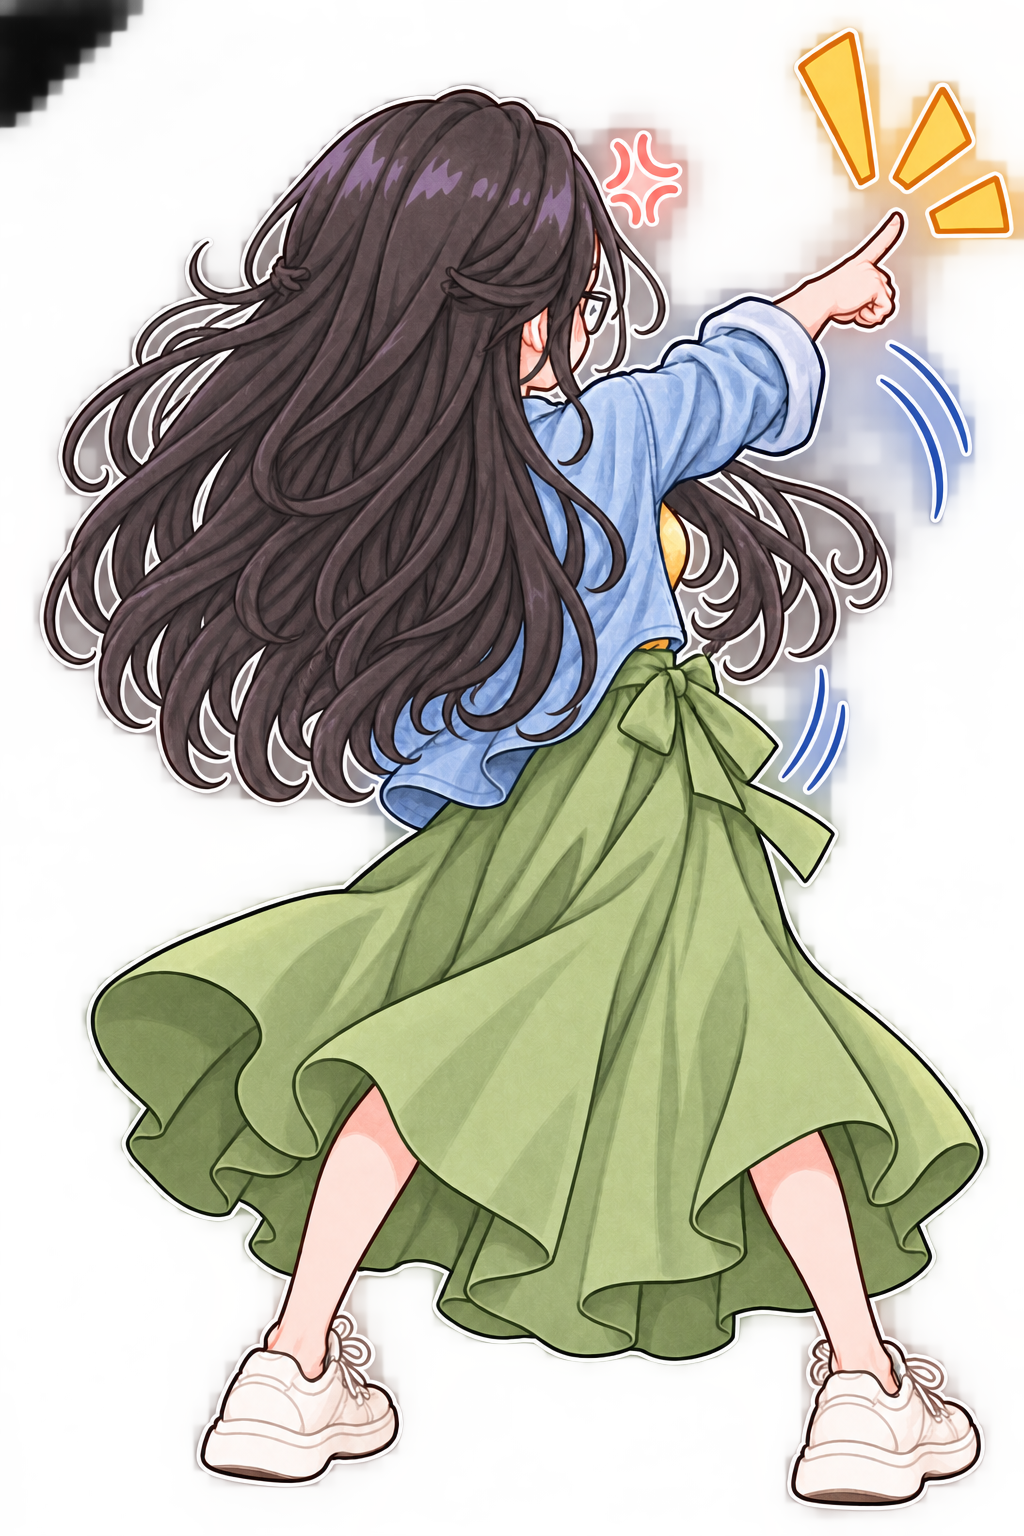
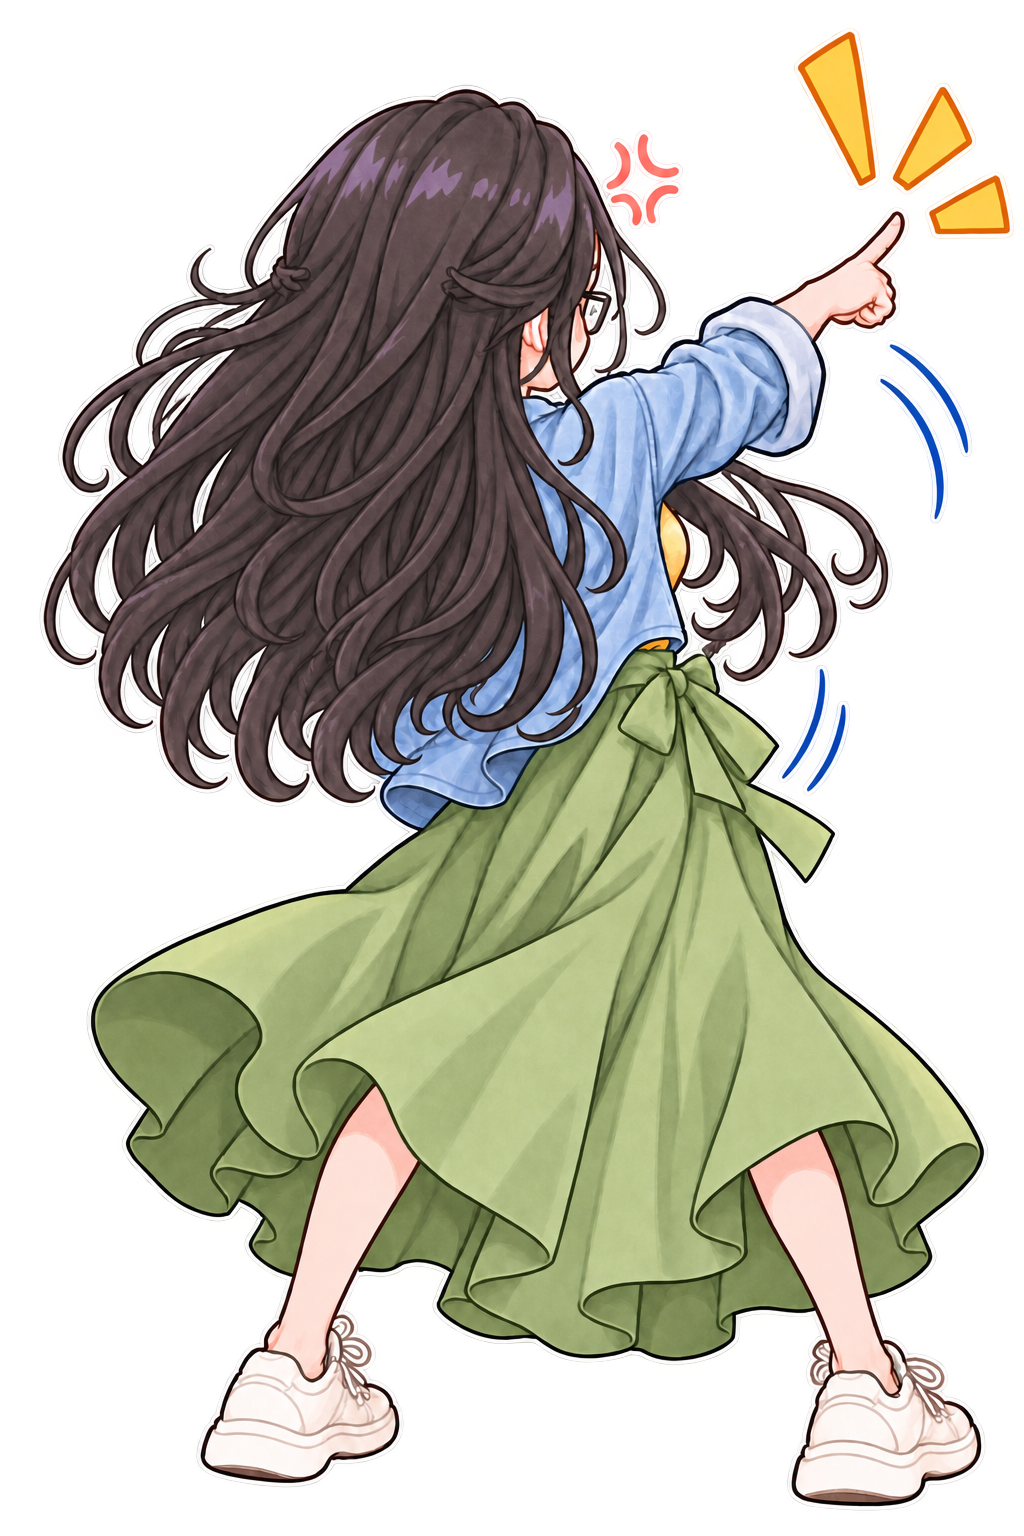
Combat

diff --git a/src/data/chapterSevenDialogue.ts b/src/data/chapterSevenDialogue.ts
@@ -57,10 +57,8 @@ export const chapterSevenDialogue: ChapterSevenLine[] = [
 
   tavern("钟离", "看来，结果已经出来了。", "zhongli", 1),
   tavern("Bianca", "结果？"),
-  tavern("温迪", "对呀。", "venti", 2),
-  tavern("温迪", "我和这位钟离先生刚刚打了个赌。", "venti", 2),
-  tavern("Bianca", "……"),
-  tavern("Bianca", "为什么你们会拿我的飞行考试打赌？"),
+  tavern("温迪", "对呀。\n 我和这位钟离先生刚刚打了个赌。", "venti", 2),
+  tavern("Bianca", "……\n 为什么你们会拿我的飞行考试打赌？"),
   tavern("温迪", "因为很有意思嘛。", "venti", 2),
   tavern("钟离", "我只是接受了他的赌约。", "zhongli", 1),
   tavern("Bianca", "这听起来也没有好到哪里去。"),
@@ -69,11 +67,8 @@ export const chapterSevenDialogue: ChapterSevenLine[] = [
   tavern("钟离", "而我的判断是，", "zhongli", 1),
   tavern("钟离", "她会一边抱怨，一边通过考试。", "zhongli", 1),
   tavern("Bianca", "……"),
-  tavern("温迪", "所以，怎么样？", "venti", 2),
-  tavern("温迪", "飞行考试通过了吗？", "venti", 2),
+  tavern("温迪", "所以，怎么样？\n 飞行考试通过了吗？", "venti", 2),
   tavern("Bianca", "……通过了。"),
-  tavern("温迪", "诶？", "venti", 2),
-  tavern("温迪", "等等。", "venti", 2),
   tavern("温迪", "那你考试的时候有没有抱怨？", "venti", 2),
   tavern("Bianca", "……"),
   tavern("Bianca", "有。"),
@@ -86,19 +81,16 @@ export const chapterSevenDialogue: ChapterSevenLine[] = [
   tavern("温迪", "知道啦知道啦。", "venti", 3),
   tavern("温迪", "不就是一顿酒嘛……", "venti", 3),
 
-  tavern("Bianca", "所以……"),
-  tavern("Bianca", "你们既然刚刚就在聊我。"),
+  tavern("Bianca", "所以……\n 你们既然刚刚就在聊我。"),
   tavern("Bianca", "是不是知道我为什么会出现在这里？"),
   tavern("Bianca", "我原本明明在飞机上。"),
   tavern("Bianca", "然后一眨眼，就拿着风之翼从天上往下掉。"),
   tavern("Bianca", "到底发生了什么？"),
-  tavern("Bianca", "还有。"),
-  tavern("Bianca", "我要怎么回去？"),
+  tavern("Bianca", "还有，我要怎么回去？"),
 
   tavern("钟离", "或许，是因为某件不属于这个世界的东西。", "zhongli", 3),
   tavern("Bianca", "不属于这个世界的东西？"),
-  tavern("钟离", "有某样来自你原本世界的物品，", "zhongli", 3),
-  tavern("钟离", "意外落入了提瓦特。", "zhongli", 3),
+  tavern("钟离", "有某样来自你原本世界的物品，\n 意外落入了提瓦特。", "zhongli", 3),
   tavern("温迪", "而且看起来，", "venti", 4),
   tavern("温迪", "它并不太安分。", "venti", 4),
   tavern("Bianca", "……？"),
@@ -115,8 +107,7 @@ export const chapterSevenDialogue: ChapterSevenLine[] = [
 
   tavern("Bianca", "那为什么是我？"),
   tavern("钟离", "因为那件东西与你有关。", "zhongli", 3),
-  tavern("钟离", "或者说——", "zhongli", 3),
-  tavern("钟离", "只有你能够将它真正带离这个世界。", "zhongli", 3),
+  tavern("钟离", "或者说——\n 只有你能够将它真正带离这个世界。", "zhongli", 3),
   tavern("Bianca", "所以我掉进这里……"),
   tavern("Bianca", "就是为了帮你们捡东西？"),
   tavern("温迪", "这么说听起来确实有点委屈。", "venti", 2),
@@ -124,8 +115,7 @@ export const chapterSevenDialogue: ChapterSevenLine[] = [
 
   tavern("Bianca", "那我要怎么找到它？"),
   tavern("钟离", "命运自会将不合适的东西排斥于外。", "zhongli", 3),
-  tavern("Bianca", "……"),
-  tavern("Bianca", "说人话。"),
+  tavern("Bianca", "……\n 说人话。"),
   tavern("温迪", "……", "venti", 2),
   tavern("钟离", "换言之。", "zhongli", 3),
   tavern("钟离", "当它引起的波动足够明显时，", "zhongli", 3),
@@ -135,13 +125,11 @@ export const chapterSevenDialogue: ChapterSevenLine[] = [
   tavern("温迪", "差不多就是这个意思。", "venti", 2),
   tavern("Bianca", "你们这个解决方案是不是有点被动。"),
 
-  tavern("Bianca", "等等。"),
-  tavern("Bianca", "那菲林斯呢？"),
+  tavern("Bianca", "等等。\n 那菲林斯呢？"),
   tavern("温迪", "菲林斯？", "venti", 1),
   tavern("Bianca", "就是那个在机场一直装工作人员的人。"),
   tavern("Bianca", "他明显早就知道我会来这里。"),
-  tavern("钟离", "……菲林斯。", "zhongli", 5),
-  tavern("温迪", "原来如此。", "venti", 5),
+  tavern("钟离", "……菲林斯。\n 原来如此。", "zhongli", 5),
   tavern("Bianca", "你们认识？"),
   tavern("温迪", "这个嘛……", "venti", 5),
 
@@ -153,5 +141,5 @@ export const chapterSevenDialogue: ChapterSevenLine[] = [
   tavern("安柏", "一直不肯离开！", "amberUrgent"),
   tavern("钟离", "看来，比预想中更快。", "zhongli", 5),
   tavern("Bianca", "等等。"),
-  tavern("Bianca", "不会这么巧吧？"),
+  tavern("Bianca", "不会这么巧吧！？"),
 ];

diff --git a/src/data/chapterFiveDialogue.ts b/src/data/chapterFiveDialogue.ts
@@ -27,7 +27,7 @@ export const chapterFiveDialogue: Record<string, ChapterFiveNode> = {
   choiceA: line("安柏", "什么？！那你刚才到底是怎么飞起来的？！", 2, "noLicence"),
   choiceB: line("安柏", "啊？！连怎么飞起来的都不知道？！", 2, "noLicence"),
   choiceC: line("安柏", "当然可以啊！你不会连飞行执照都没有吧？！", 2, "noLicence"),
-  noLicence: line("安柏", "什么？！没有飞行执照就敢乱飞！", 2, "biancaExplain"),
+  noLicence: line("安柏", "没有飞行执照就敢乱飞！", 2, "biancaExplain"),
   biancaExplain: line("Bianca", "不是，我其实——", 2, "amberChampion"),
   amberChampion: line("安柏", "正好！我可是蒙德城的飞行冠军！走走走，我带你去参加飞行考试！", 4, "biancaProtest"),
   biancaProtest: line("Bianca", "等一下！我还没说我要——", 4, "draggedAway"),

diff --git a/src/components/ChapterSixStory.tsx b/src/components/ChapterSixStory.tsx
@@ -10,7 +10,7 @@ type Props = {
 type Stage = "opening" | "mission" | "preExam" | "rules" | "readyReply" | "game" | "retry" | "passed" | "success" | "reward" | "after" | "completed";
 const lanes = [25, 50, 75];
 // 飞行考试需要成功穿过的风圈数量；想改变考试长度，只需要修改这里。
-const REQUIRED_RING_HITS = 20;
+const REQUIRED_RING_HITS = 16;
 const ringDurations = [2400, 2400, 2200, 2200, 2000, 1800, 1800, 1650];
 // 气流阶段的三个主要调节参数：触发风圈数、最大碰撞次数、相对风圈速度。
 const AIRFLOW_TRIGGER_HITS = 4;
